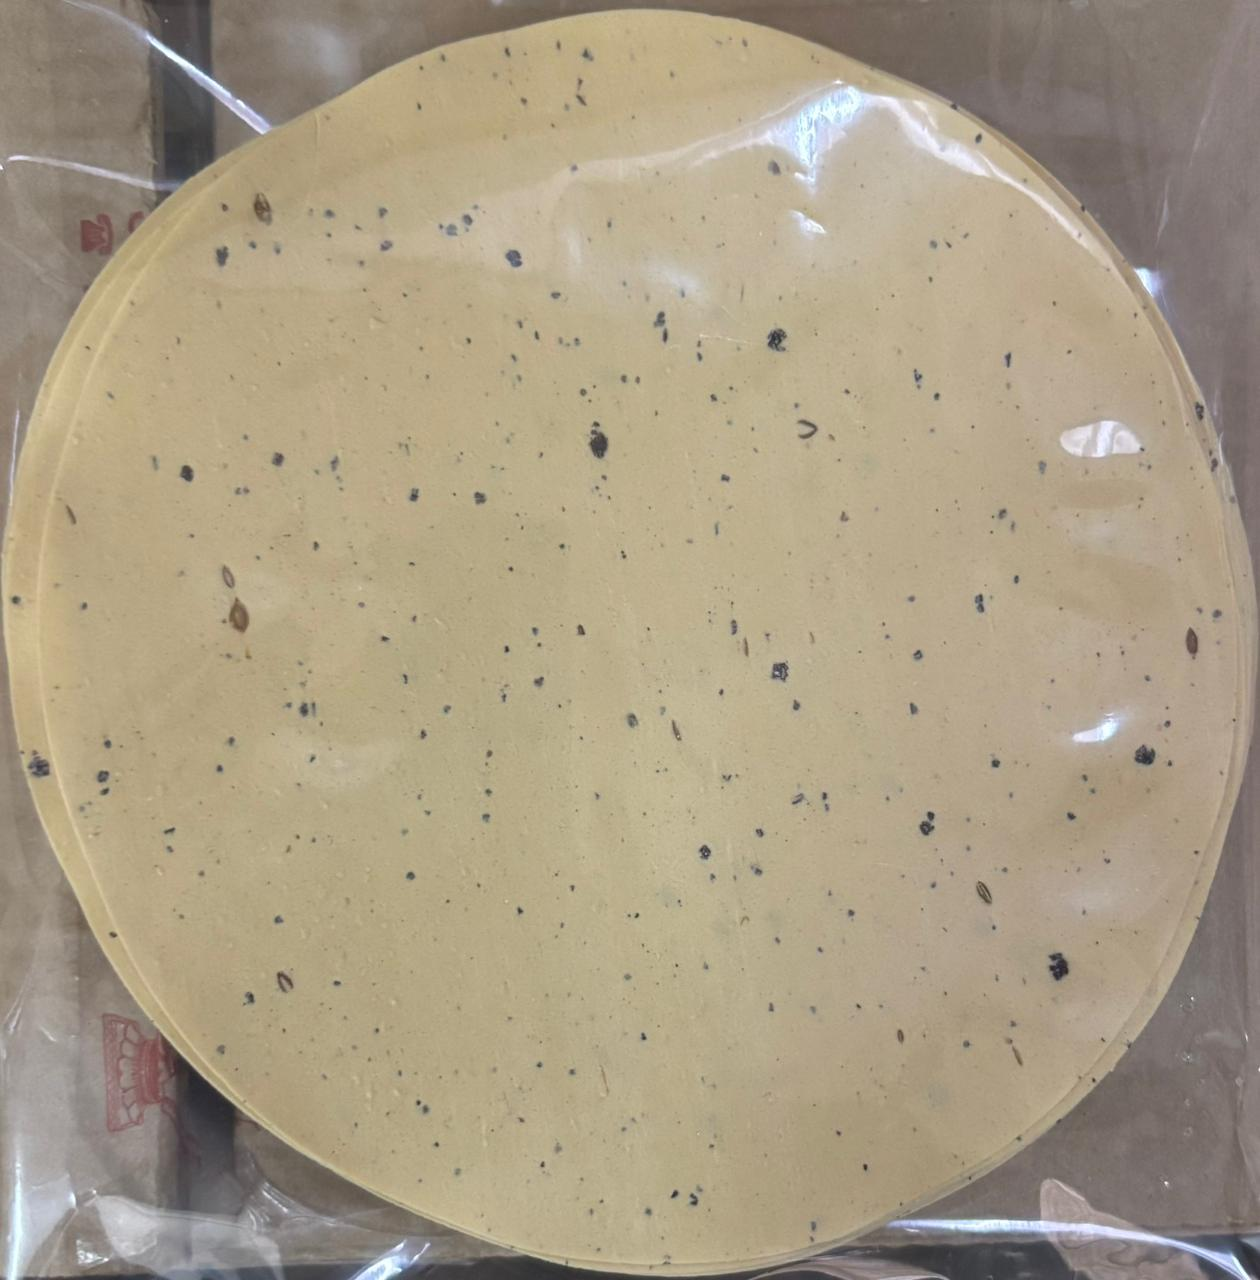
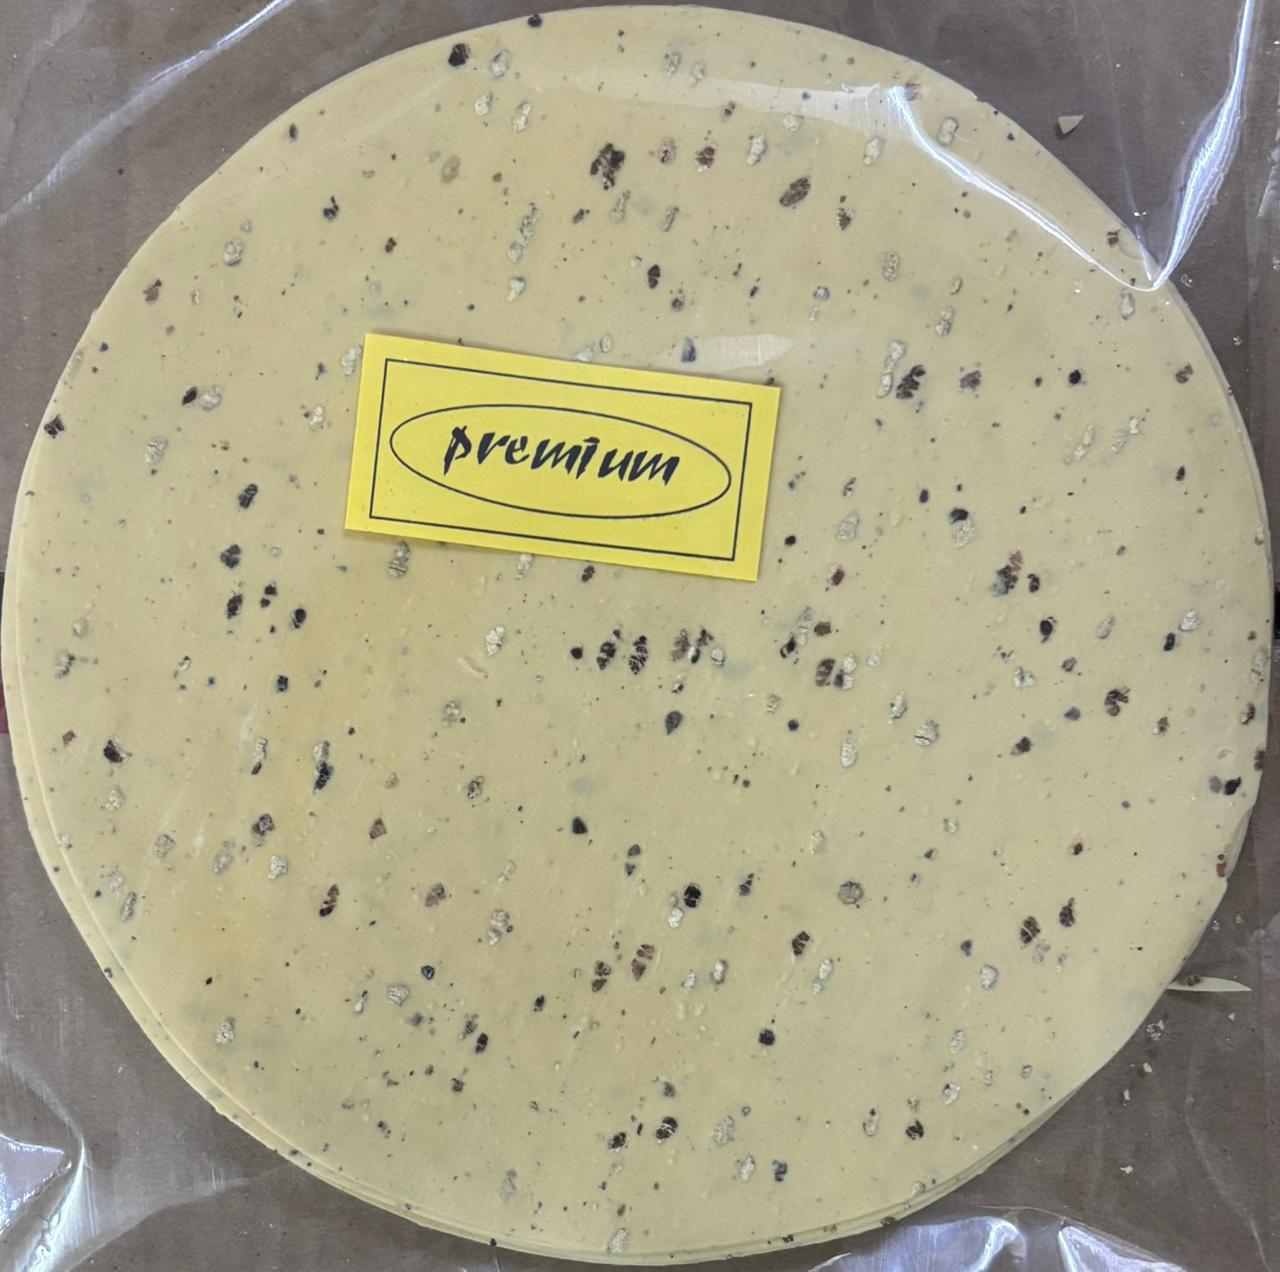
Images updated

diff --git a/script.js b/script.js
@@ -5,6 +5,15 @@ let currentLanguage = 'en';
 const PRODUCTS = [
   {
     id: 'p1',
+    name: 'Moong Papad - PREMIUM',
+    nameHi: 'मूंग पापड़ - प्रीमियम',
+    category: 'moong',
+    img: 'assets/Moong Papad - Premium.jpeg',
+    desc: 'Ultra-premium with extra chawa saji for superior taste and texture.',
+    descHi: 'श्रेष्ठ स्वाद और बनावट के लिए अतिरिक्त चावा साजी के साथ अल्ट्रा-प्रीमियम।'
+  },
+  {
+    id: 'p2',
     name: 'Moong Papad - SHAHI',
     nameHi: 'मूंग पापड़ - शाही',
     category: 'moong',
@@ -13,88 +22,7 @@ const PRODUCTS = [
     descHi: 'प्रीमियम चावा साजी और सुगंधित हिंग के साथ शाही गुणवत्ता।'
   },
   {
-    id: 'p2',
-    name: 'Moong Papad - SPECIAL',
-    nameHi: 'मूंग पापड़ - स्पेशल',
-    category: 'moong',
-    img: 'assets/Moong Papad - SPECIAL.jpeg',
-    desc: 'Special blend with enhanced hing flavor for distinctive taste.',
-    descHi: 'विशिष्ट स्वाद के लिए बढ़े हुए हिंग स्वाद के साथ विशेष मिश्रण।'
-  },
-  {
     id: 'p3',
-    name: 'Moong Punjabi Masala',
-    nameHi: 'मूंग पंजाबी मसाला',
-    category: 'moong',
-    img: 'assets/Moong Punjabi Masala.jpeg',
-    desc: 'Robust Punjabi masala flavor with aromatic hing notes.',
-    descHi: 'सुगंधित हिंग स्वाद के साथ मजबूत पंजाबी मसाला स्वाद।'
-  },
-  {
-    id: 'p4',
-    name: 'Moong Papad - No.1',
-    nameHi: 'मूंग पापड़ - नंबर 1',
-    category: 'moong',
-    img: 'assets/Moong Papad - No.1.jpeg',
-    desc: 'Classic everyday papad with balanced flavor and perfect crispness.',
-    descHi: 'संतुलित स्वाद और परफेक्ट कुरकुरेपन के साथ क्लासिक रोजमर्रा का पापड़।'
-  },
-  {
-    id: 'p5',
-    name: 'Moong Papad - SHAHI JAIN',
-    nameHi: 'मूंग पापड़ - शाही जैन',
-    category: 'moong',
-    img: 'assets/Moong Papad - SHAHI JAIN.jpeg',
-    desc: 'Jain-friendly royal papad with rich hing flavor, no onion/garlic.',
-    descHi: 'समृद्ध हिंग स्वाद के साथ जैन-अनुकूल शाही पापड़, बिना प्याज/लहसुन।'
-  },
-  {
-    id: 'p6',
-    name: 'Moong Papad - PREMIUM',
-    nameHi: 'मूंग पापड़ - प्रीमियम',
-    category: 'moong',
-    img: 'assets/Moong Papad - SHAHI JAIN.jpeg',
-    desc: 'Ultra-premium with extra chawa saji for superior taste and texture.',
-    descHi: 'श्रेष्ठ स्वाद और बनावट के लिए अतिरिक्त चावा साजी के साथ अल्ट्रा-प्रीमियम।'
-  },
-  {
-    id: 'p7',
-    name: 'RAJA Punjabi - Tej Masala',
-    nameHi: 'राजा पंजाबी - तेज मसाला',
-    category: 'moong',
-    img: 'assets/RAJA Punjabi - Tej Masala.jpeg',
-    desc: 'Spicy tej masala variant for those who love extra heat.',
-    descHi: 'उन लोगों के लिए मसालेदार तेज मसाला वेरिएंट जो अतिरिक्त तीखापन पसंद करते हैं।'
-  },
-  {
-    id: 'p8',
-    name: 'DISCO SPECIAL',
-    nameHi: 'डिस्को स्पेशल',
-    category: 'other',
-    img: 'assets/DISCO SPECIAL.jpeg',
-    desc: 'Fun mini round papads perfect for parties and kids.',
-    descHi: 'पार्टियों और बच्चों के लिए बिल्कुल सही मजेदार मिनी गोल पापड़।'
-  },
-  {
-    id: 'p9',
-    name: 'Moong Katran - SPECIAL',
-    nameHi: 'मूंग कतरन - स्पेशल',
-    category: 'other',
-    img: 'assets/Moong Katran - SPECIAL.jpeg',
-    desc: 'Crunchy moong flakes ideal for frying or adding to snacks.',
-    descHi: 'तलने या स्नैक्स में मिलाने के लिए आदर्श कुरकुरे मूंग फ्लेक्स।'
-  },
-  {
-    id: 'p10',
-    name: 'Chana Papad - No.1',
-    nameHi: 'चना पापड़ - नंबर 1',
-    category: 'chana',
-    img: 'assets/Chana Papad - No.1.jpeg',
-    desc: 'Classic chana papad with traditional taste and perfect crisp.',
-    descHi: 'पारंपरिक स्वाद और परफेक्ट कुरकुरेपन के साथ क्लासिक चना पापड़।'
-  },
-  {
-    id: 'p11',
     name: 'Chana Papad - SHAHI',
     nameHi: 'चना पापड़ - शाही',
     category: 'chana',
@@ -103,25 +31,43 @@ const PRODUCTS = [
     descHi: 'ऑथेंटिक स्वाद के लिए खार और हिंग के साथ शाही चना पापड़।'
   },
   {
-    id: 'p12',
-    name: 'Chana Papad - SPECIAL',
-    nameHi: 'चना पापड़ - स्पेशल',
-    category: 'chana',
-    img: 'assets/Chana Papad - SPL.jpeg',
-    desc: 'Special sweet variant with khar for unique taste profile.',
-    descHi: 'अनोखे स्वाद प्रोफाइल के लिए खार के साथ विशेष मीठा वेरिएंट।'
+    id: 'p4',
+    name: 'Moong Papad - SHAHI JAIN',
+    nameHi: 'मूंग पापड़ - शाही जैन',
+    category: 'moong',
+    img: 'assets/Moong Papad - SHAHI JAIN.jpeg',
+    desc: 'Jain-friendly royal papad with rich hing flavor, no onion/garlic.',
+    descHi: 'समृद्ध हिंग स्वाद के साथ जैन-अनुकूल शाही पापड़, बिना प्याज/लहसुन।'
   },
   {
-    id: 'p13',
-    name: 'Chana-SPECIAL Garlic',
-    nameHi: 'चना-स्पेशल लहसुन',
-    category: 'chana',
-    img: 'assets/Chana-SPECIAL Garlic.jpeg',
-    desc: 'Garlic infused chana papad with aromatic garlic flavor.',
-    descHi: 'सुगंधित लहसुन स्वाद के साथ लहसुन युक्त चना पापड़।'
+    id: 'p5',
+    name: 'DISCO SPECIAL',
+    nameHi: 'डिस्को स्पेशल',
+    category: 'other',
+    img: 'assets/DISCO SPECIAL.jpeg',
+    desc: 'Fun mini round papads perfect for parties and kids.',
+    descHi: 'पार्टियों और बच्चों के लिए बिल्कुल सही मजेदार मिनी गोल पापड़।'
   },
   {
-    id: 'p14',
+    id: 'p6',
+    name: 'Moong Katran - SPECIAL',
+    nameHi: 'मूंग कतरन - स्पेशल',
+    category: 'other',
+    img: 'assets/Moong Katran - SPECIAL.jpeg',
+    desc: 'Crunchy moong flakes ideal for frying or adding to snacks.',
+    descHi: 'तलने या स्नैक्स में मिलाने के लिए आदर्श कुरकुरे मूंग फ्लेक्स।'
+  },
+  {
+    id: '7',
+    name: 'Moong Punjabi Masala',
+    nameHi: 'मूंग पंजाबी मसाला',
+    category: 'moong',
+    img: 'assets/Moong Punjabi Masala.jpeg',
+    desc: 'Robust Punjabi masala flavor with aromatic hing notes.',
+    descHi: 'सुगंधित हिंग स्वाद के साथ मजबूत पंजाबी मसाला स्वाद।'
+  },
+  {
+    id: 'p8',
     name: 'Moong-Shahi Garlic',
     nameHi: 'मूंग-शाही लहसुन',
     category: 'moong',
@@ -130,11 +76,65 @@ const PRODUCTS = [
     descHi: 'उदार लहसुन इन्फ्यूजन के साथ प्रीमियम मूंग पापड़।'
   },
   {
+    id: 'p9',
+    name: 'Chana-SPECIAL Garlic',
+    nameHi: 'चना-स्पेशल लहसुन',
+    category: 'chana',
+    img: 'assets/Chana-SPECIAL Garlic.jpeg',
+    desc: 'Garlic infused chana papad with aromatic garlic flavor.',
+    descHi: 'सुगंधित लहसुन स्वाद के साथ लहसुन युक्त चना पापड़।'
+  },
+  {
+    id: 'p10',
+    name: 'Moong Papad - No.1',
+    nameHi: 'मूंग पापड़ - नंबर 1',
+    category: 'moong',
+    img: 'assets/Moong Papad - No.1.jpeg',
+    desc: 'Classic everyday papad with balanced flavor and perfect crispness.',
+    descHi: 'संतुलित स्वाद और परफेक्ट कुरकुरेपन के साथ क्लासिक रोजमर्रा का पापड़।'
+  },
+  {
+    id: 'p11',
+    name: 'Chana Papad - No.1',
+    nameHi: 'चना पापड़ - नंबर 1',
+    category: 'chana',
+    img: 'assets/Chana Papad - No.1.jpeg',
+    desc: 'Classic chana papad with traditional taste and perfect crisp.',
+    descHi: 'पारंपरिक स्वाद और परफेक्ट कुरकुरेपन के साथ क्लासिक चना पापड़।'
+  },
+  {
+    id: 'p12',
+    name: 'RAJA Punjabi - Tej Masala',
+    nameHi: 'राजा पंजाबी - तेज मसाला',
+    category: 'moong',
+    img: 'assets/RAJA Punjabi - Tej Masala.jpeg',
+    desc: 'Spicy tej masala variant for those who love extra heat.',
+    descHi: 'उन लोगों के लिए मसालेदार तेज मसाला वेरिएंट जो अतिरिक्त तीखापन पसंद करते हैं।'
+  },
+  {
+    id: 'p13',
+    name: 'Moong Papad - SPECIAL',
+    nameHi: 'मूंग पापड़ - स्पेशल',
+    category: 'moong',
+    img: 'assets/Moong Papad - SPECIAL.jpeg',
+    desc: 'Special blend with enhanced hing flavor for distinctive taste.',
+    descHi: 'विशिष्ट स्वाद के लिए बढ़े हुए हिंग स्वाद के साथ विशेष मिश्रण।'
+  },
+  {
+    id: 'p14',
+    name: 'Chana Papad - SPECIAL',
+    nameHi: 'चना पापड़ - स्पेशल',
+    category: 'chana',
+    img: 'assets/Chana Papad - SPL.jpeg',
+    desc: 'Special sweet variant with khar for unique taste profile.',
+    descHi: 'अनोखे स्वाद प्रोफाइल के लिए खार के साथ विशेष मीठा वेरिएंट।'
+  },
+  {
     id: 'p15',
     name: 'Dollar Moong',
     nameHi: 'डॉलर मूंग',
     category: 'other',
-    img: 'assets/Dollar Moong.jpg',
+    img: 'assets/Dollar Moong.jpeg',
     desc: 'Uniform dollar-shaped moong papads for elegant presentation.',
     descHi: 'स्टाइलिश प्रस्तुति के लिए एकसमान डॉलर के आकार के मूंग पापड़।'
   },
